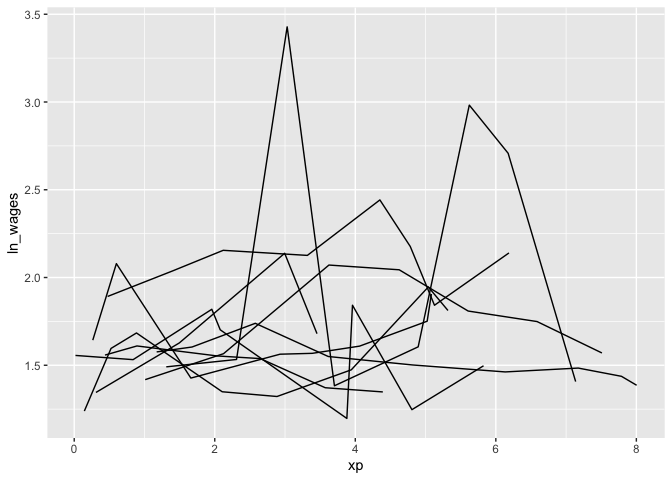
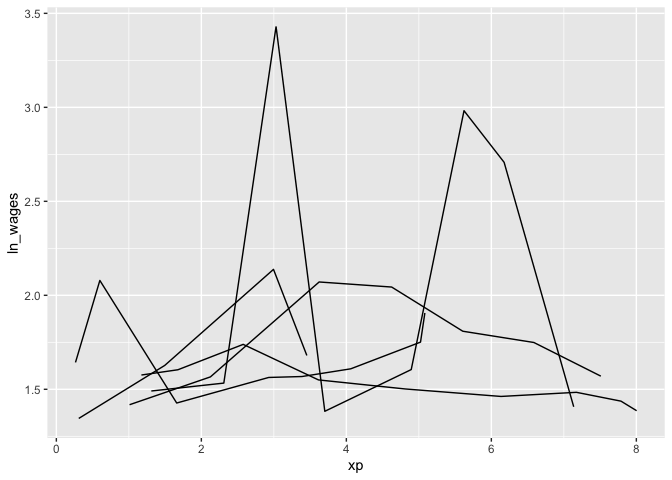
condense README and update pre-commit-config

diff --git a/README.md b/README.md
@@ -68,22 +68,26 @@ Structures”](library/brolgar/html/longitudinal-data-structures.html)
 
 ## Efficiently exploring longitudinal data
 
-Exploring longitudinal data can be challenging. When there are many
-individuals it is difficult to look at all of them, as you often get a
-“plate of spaghetti” plot, with many lines plotted on top of each
-other. To avoid staring at a plate of spaghetti, you can look at a
-random subset of the data using tools in `brolgar`.
+Exploring longitudinal data can be challenging when there are many
+individuals. It is difficult to look at all of them\!
+
+You often get a “plate of spaghetti” plot, with many lines plotted on
+top of each other. To avoid the spaghetti by looking at a random subset
+of the data using tools in `brolgar`.
 
 ### `sample_n_keys()`
 
-In `dplyr`, you can use `sample_n()` to sample `n` observations.
-Similarly, with `brolgar`, you can take a random sample of `n` keys
-using `sample_n_keys()`:
+In `dplyr`, you can use `sample_n()` to sample `n` observations, or
+`sample_frac()` to look at a `frac`tion of observations.
+
+`brolgar` builds on this providing `sample_n_keys()` and
+`sample_frac_keys()`. This allos you to take a random sample of `n` keys
+using `sample_n_keys()`, for example:
 
 ``` r
 set.seed(2019-7-15-1300)
 wages %>%
-  sample_n_keys(size = 10) %>%
+  sample_n_keys(size = 5) %>%
   ggplot(aes(x = xp,
              y = ln_wages,
              group = id)) + 
@@ -92,30 +96,7 @@ wages %>%
 
 <img src="man/figures/README-plot-sample-n-keys-1.png" width="75%" style="display: block; margin: auto;" />
 
-## Filtering observations
-
-You can combine `sample_n_keys()` with `add_n_obs()` and `filter()` to
-only show keys with many observations:
-
-``` r
-set.seed(2019-7-15-1259)
-library(dplyr)
-wages %>%
-  add_n_obs() %>%
-  filter(n_obs > 5) %>%
-  sample_n_keys(size = 10) %>%
-  ggplot(aes(x = xp,
-             y = ln_wages,
-             group = id)) + 
-  geom_line()
-```
-
-<img src="man/figures/README-plot-filter-sample-n-keys-1.png" width="75%" style="display: block; margin: auto;" />
-
-(Note: `sample_frac_keys()`, which samples a fraction of available
-keys.)
-
-Now, how do you break these into many plots?
+But how do you break these into many plots?
 
 ## Clever facets: `facet_strata()`
 
@@ -135,22 +116,8 @@ ggplot(wages,
 
 <img src="man/figures/README-facet-strata-1.png" width="75%" style="display: block; margin: auto;" />
 
-But you could ask it to split the data into a more groups
-
-``` r
-set.seed(2019-07-25-1450)
-library(ggplot2)
-ggplot(wages,
-       aes(x = xp,
-           y = ln_wages,
-           group = id)) +
-  geom_line() +
-  facet_strata(n_strata = 20)
-```
-
-<img src="man/figures/README-facet-strata-20-1.png" width="75%" style="display: block; margin: auto;" />
-
-And what if you want to show only a few samples per facet?
+And if you want to show only a few samples per facet, you can use
+`facet_sample()`
 
 ## Clever facets: `facet_sample()`
 
@@ -169,21 +136,6 @@ ggplot(wages,
 ```
 
 <img src="man/figures/README-facet-sample-1.png" width="75%" style="display: block; margin: auto;" />
-
-But you can specify your own number:
-
-``` r
-set.seed(2019-07-25-1527)
-ggplot(wages,
-       aes(x = xp,
-           y = ln_wages,
-           group = id)) +
-  geom_line() +
-  facet_sample(n_per_facet = 3,
-               n_facets = 20)
-```
-
-<img src="man/figures/README-facet-sample-3-by-20-1.png" width="75%" style="display: block; margin: auto;" />
 
 Under the hood, `facet_sample()` and `facet_strata()` use
 `sample_n_keys()` and `stratify_keys()`.
@@ -216,28 +168,7 @@ wages %>%
 
 `brolgar` provides some sets of features, which start with `feat_`.
 
-For example, the five number summary is `feat_five_num`:
-
-``` r
-wages %>%
-  features(ln_wages, feat_five_num)
-#> # A tibble: 888 x 6
-#>       id   min   q25   med   q75   max
-#>    <int> <dbl> <dbl> <dbl> <dbl> <dbl>
-#>  1    31 1.43   1.48  1.73  2.02  2.13
-#>  2    36 1.80   1.97  2.32  2.59  2.93
-#>  3    53 1.54   1.58  1.71  1.89  3.24
-#>  4   122 0.763  2.10  2.19  2.46  2.92
-#>  5   134 2.00   2.28  2.36  2.79  2.93
-#>  6   145 1.48   1.58  1.77  1.89  2.04
-#>  7   155 1.54   1.83  2.22  2.44  2.64
-#>  8   173 1.56   1.68  2.00  2.05  2.34
-#>  9   206 2.03   2.07  2.30  2.45  2.48
-#> 10   207 1.58   1.87  2.15  2.26  2.66
-#> # … with 878 more rows
-```
-
-Or finding those whose values only increase or decrease with
+For example, finding those whose values only increase or decrease with
 `feat_monotonic`
 
 ``` r
@@ -288,7 +219,7 @@ n_obs(wages)
 #>  6402
 ```
 
-And the number of observations for each key using `n_keys()`:
+And the number of keys in the data using `n_keys()`:
 
 ``` r
 n_keys(wages)
